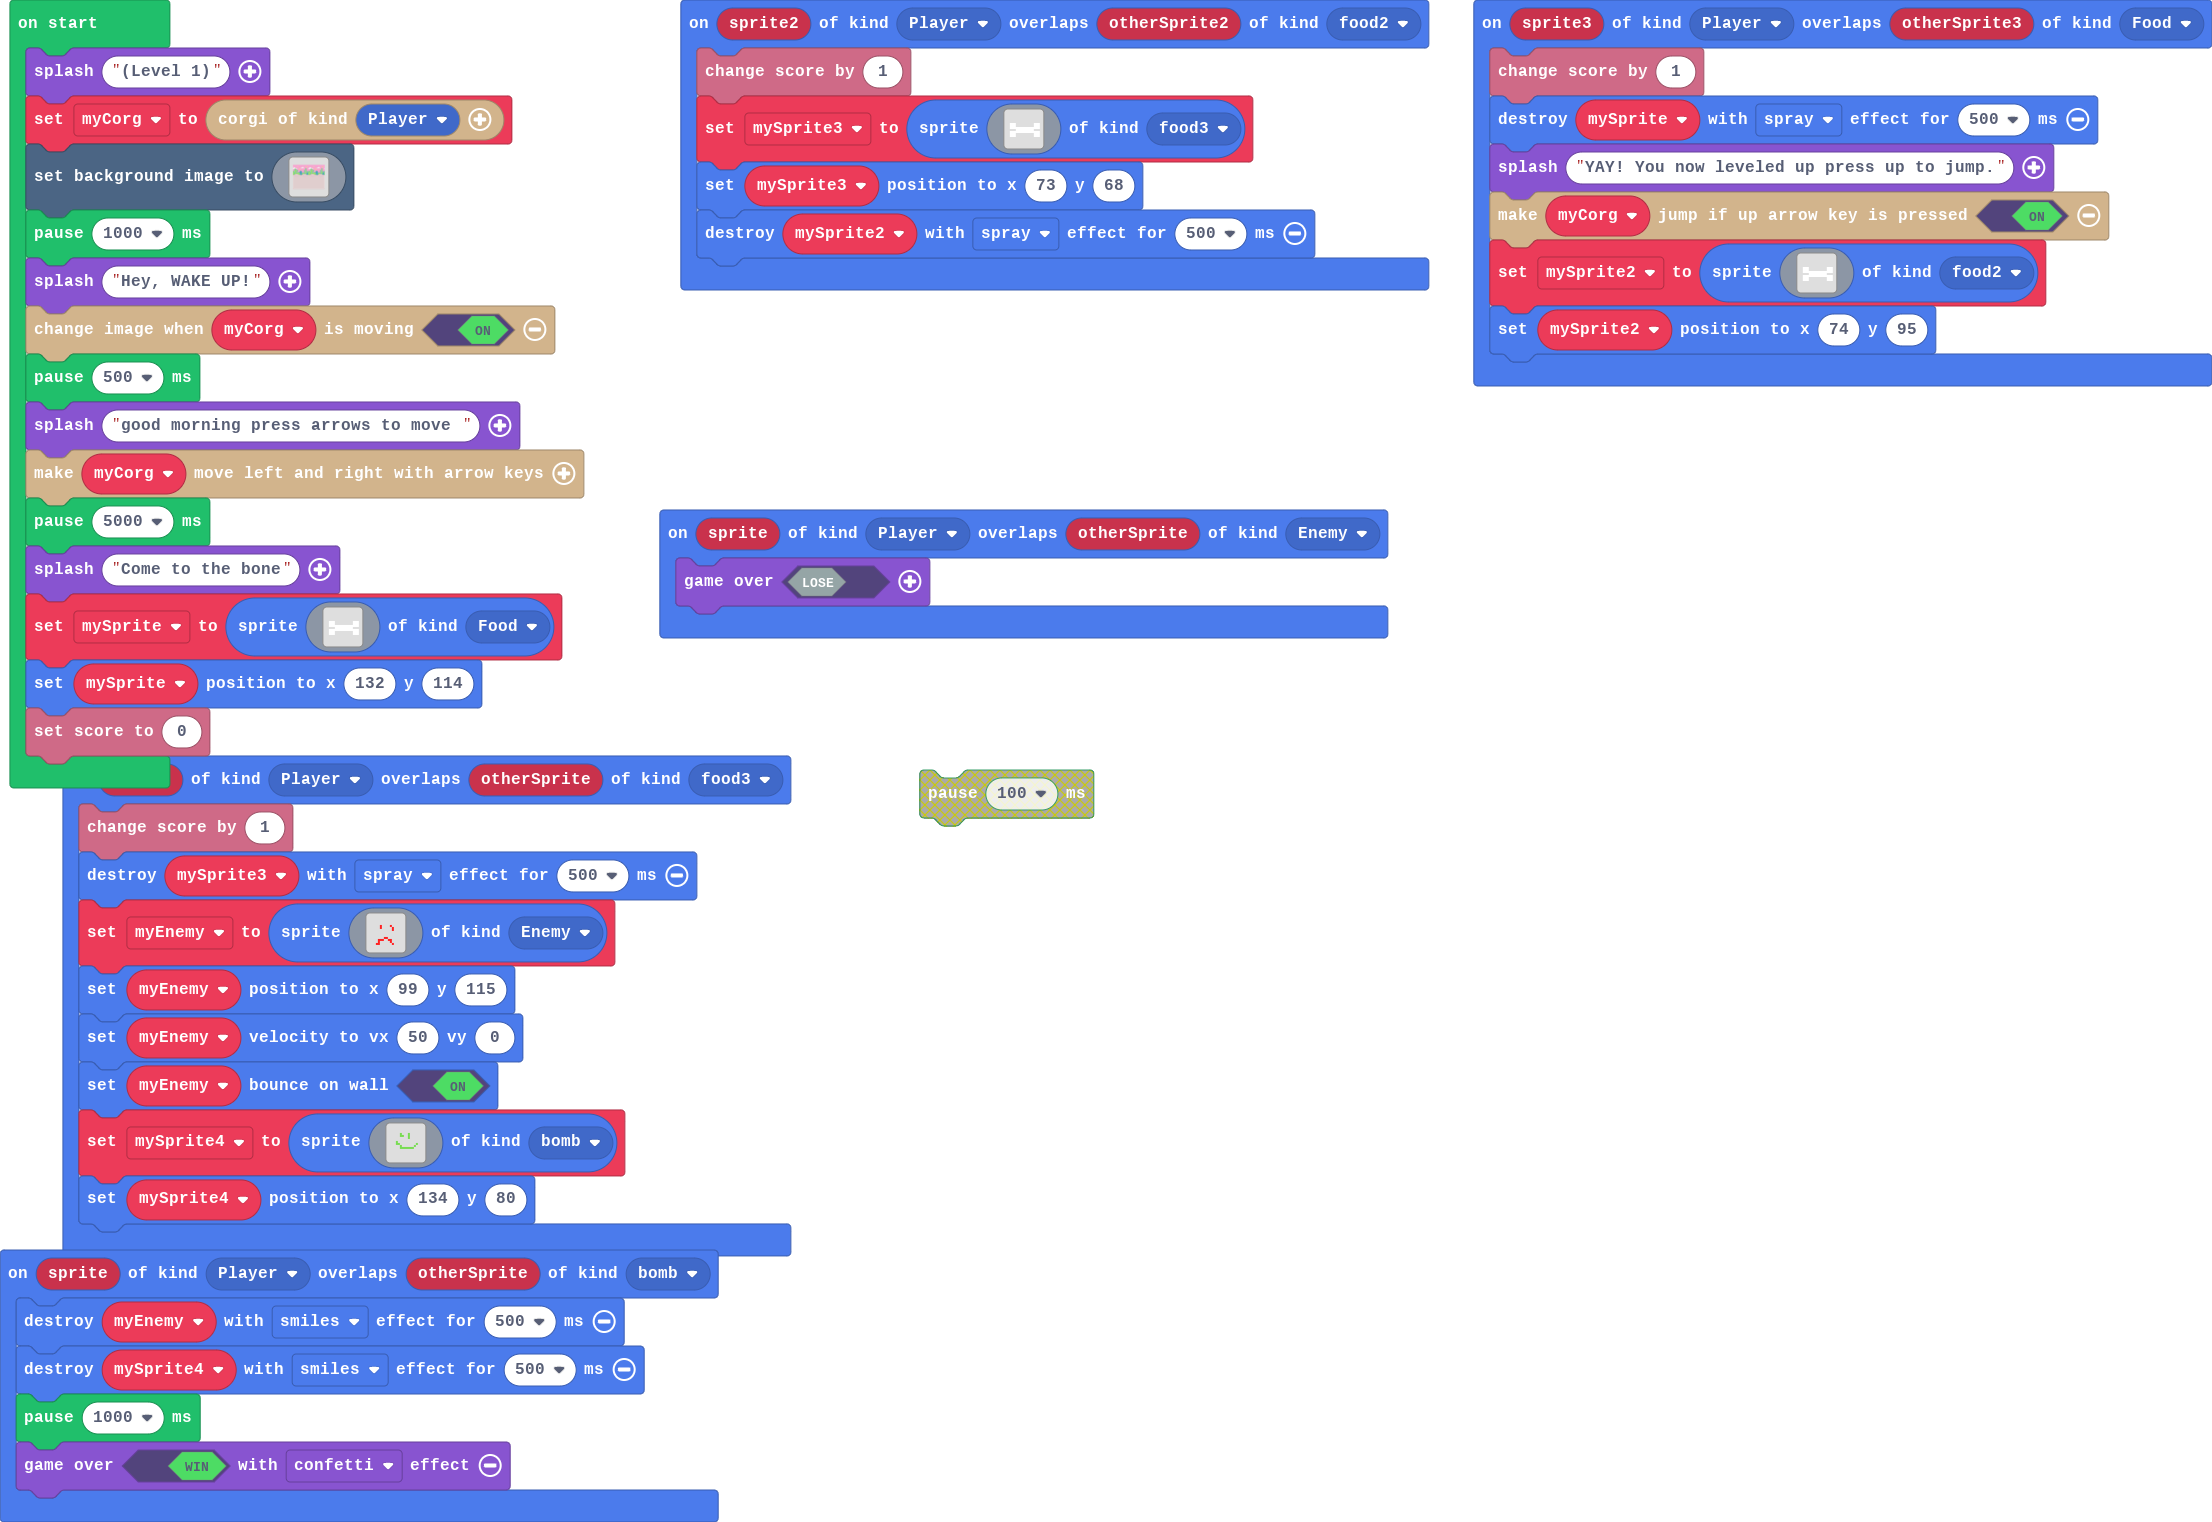
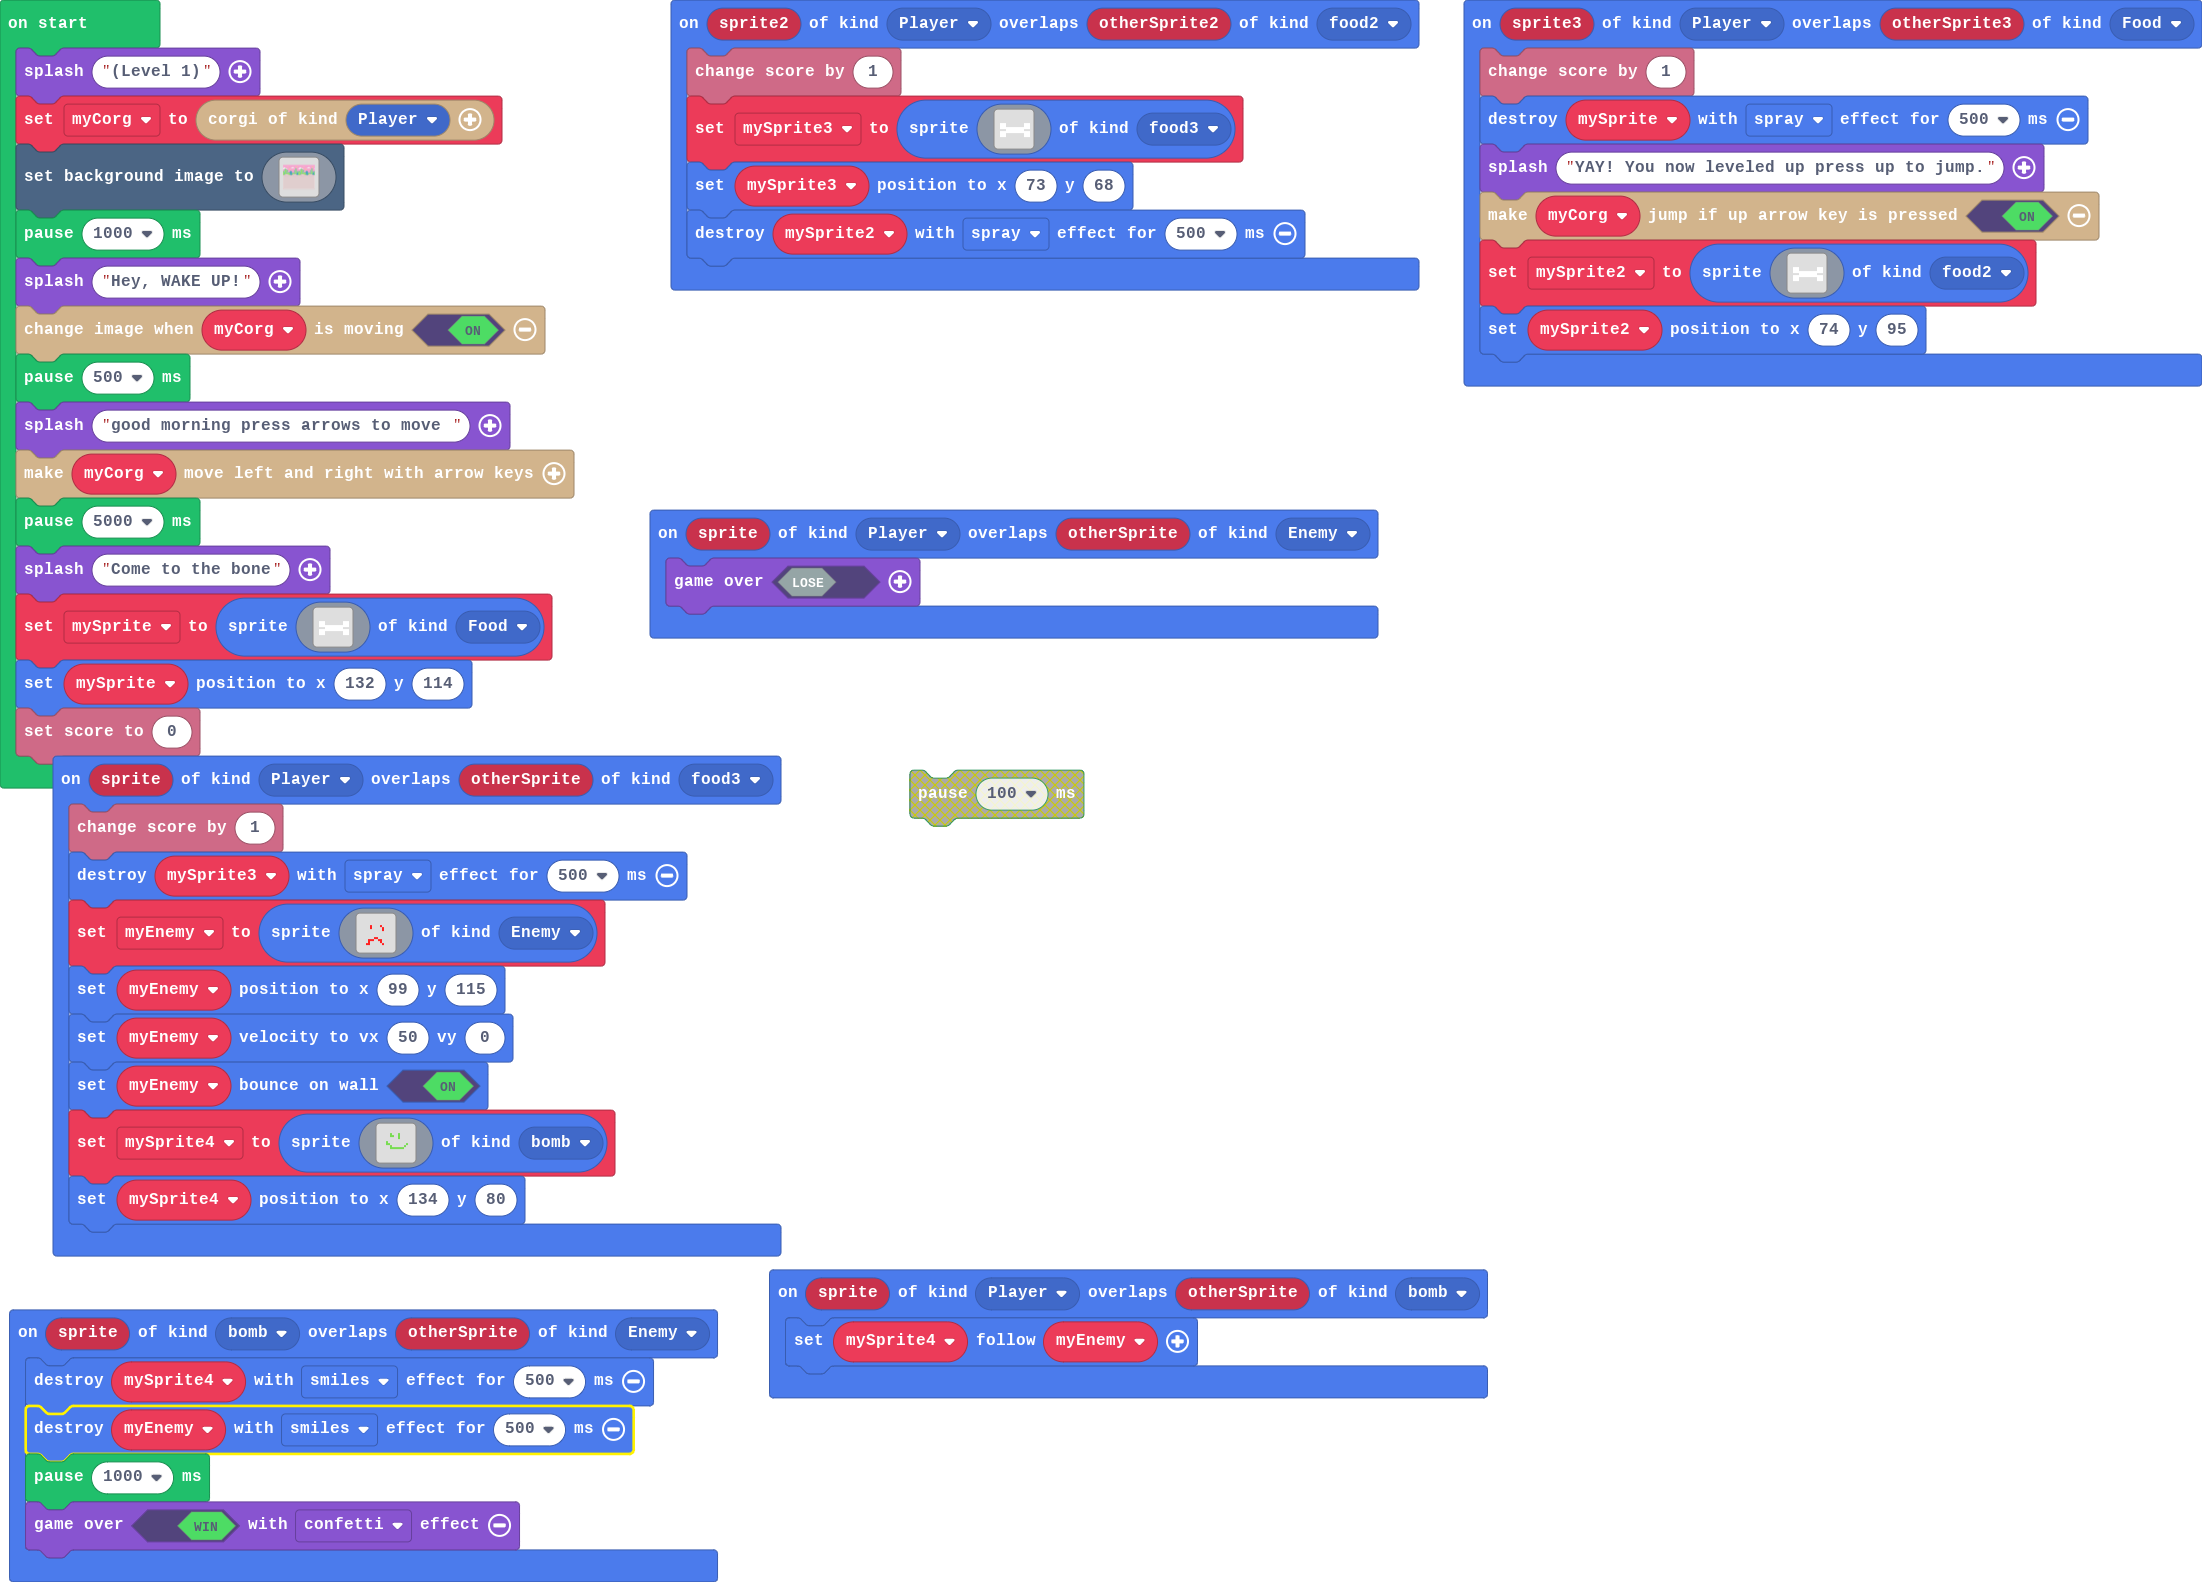
Update main.blocks, main.ts

Changed region(s): [[0.0, 0.0, 0.6794, 1.0], [0.2779, 0.0, 1.0, 0.2779], [0.4015, 0.4632, 0.4941, 0.5558]]

diff --git a/main.ts b/main.ts
@@ -48,8 +48,11 @@ sprites.onOverlap(SpriteKind.Player, SpriteKind.food3, function (sprite, otherSp
     mySprite4.setPosition(134, 80)
 })
 sprites.onOverlap(SpriteKind.Player, SpriteKind.bomb, function (sprite, otherSprite) {
-    myEnemy.destroy(effects.smiles, 500)
+    mySprite4.follow(myEnemy)
+})
+sprites.onOverlap(SpriteKind.bomb, SpriteKind.Enemy, function (sprite, otherSprite) {
     mySprite4.destroy(effects.smiles, 500)
+    myEnemy.destroy(effects.smiles, 500)
     pause(1000)
     game.over(true, effects.confetti)
 })
